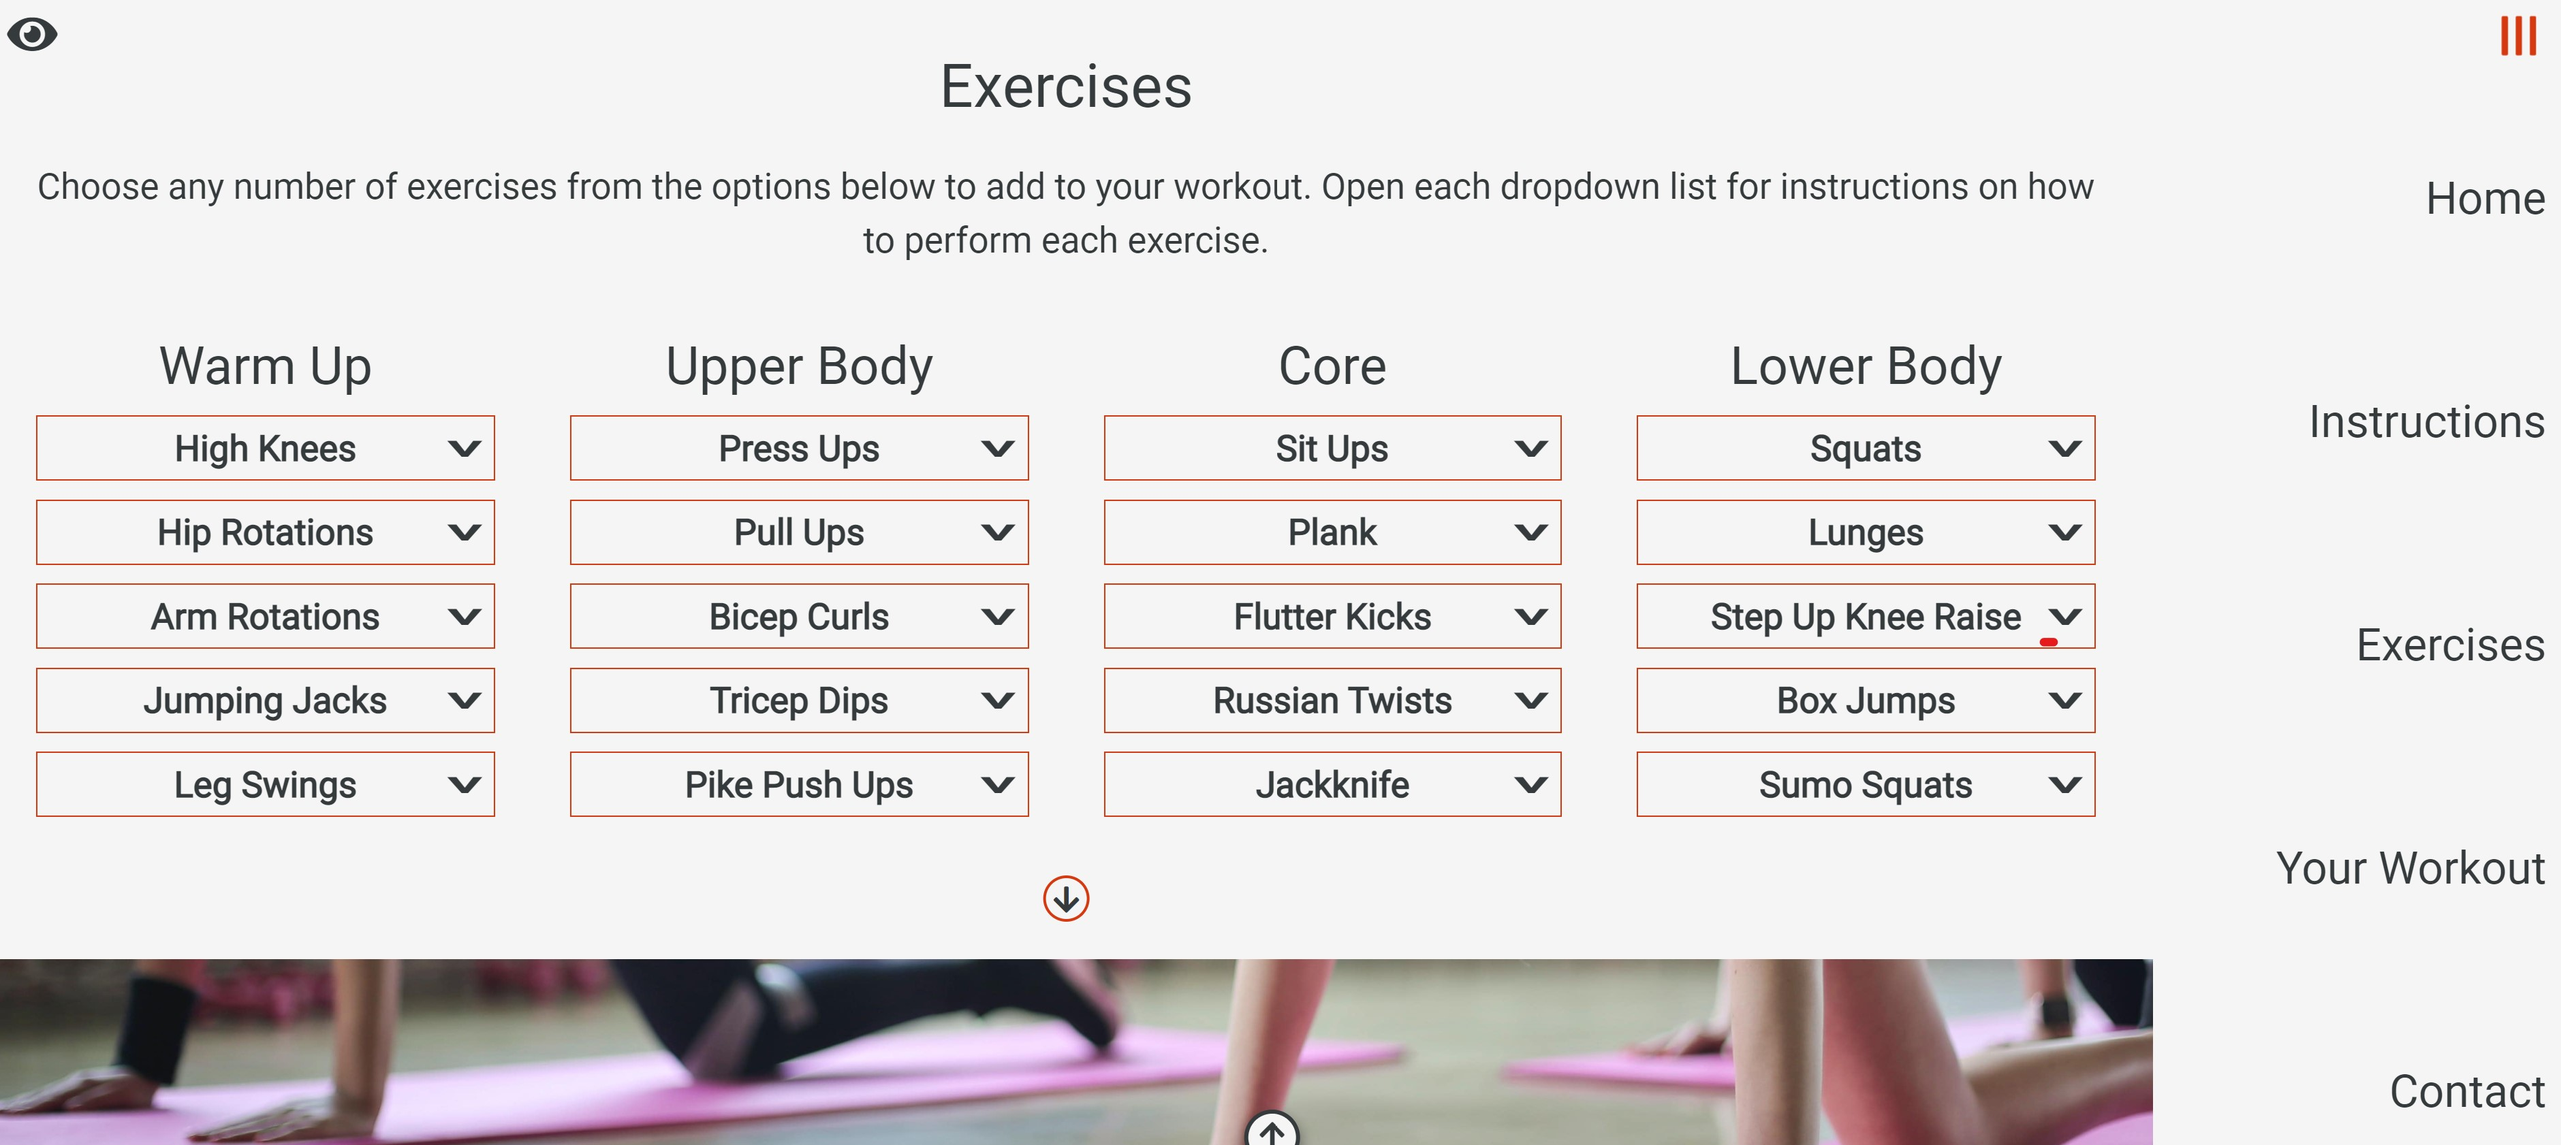
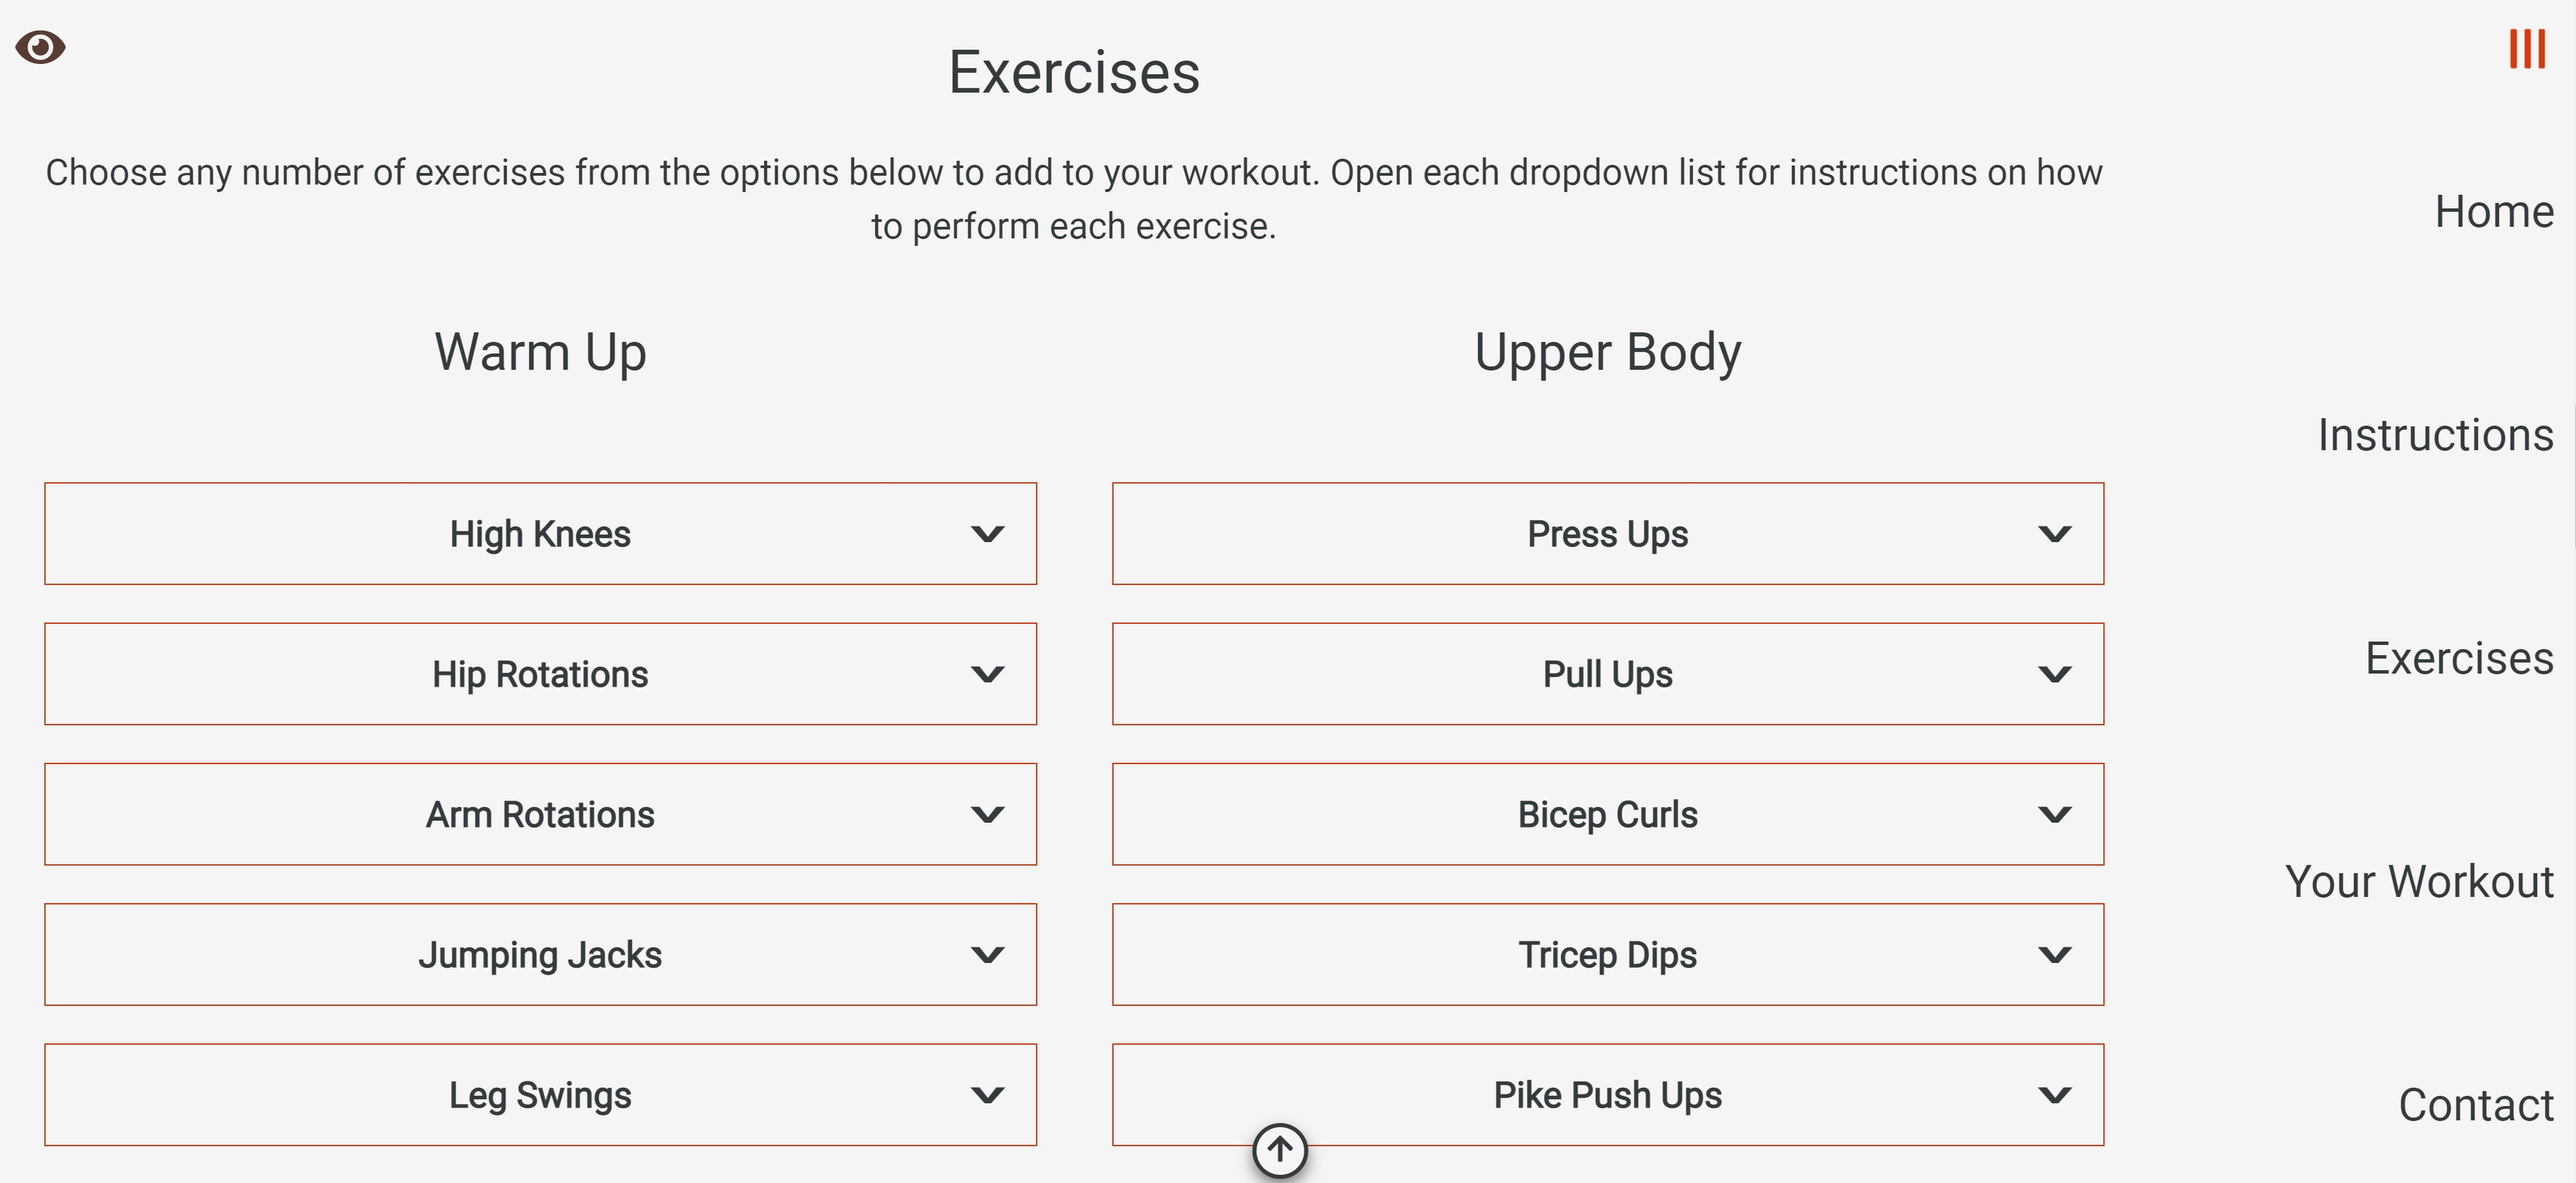
Added further updates to screenshots to reflect design changes

diff --git a/README.md b/README.md
@@ -112,11 +112,11 @@ All font is 'Roboto' from the Google Fonts collection. This is a very typical fo
 
   ![Small Screen](documentation/responsive_small.jpg)
 
-  - On Larger screens, the "My Exercises" items are in four columns.
+  - On Larger screens, the "My Exercises" items are in two columns.
   
   ![Large Screen](documentation/responsive_large.jpg)
 
-  - On tablet screens, the "My Exercises" items are in two columns.
+  - On tablet screens, the "My Exercises" items are in one column, same as for smaller screens.
 
   ![Mid Screen](documentation/responsive_mid.jpg)
 
@@ -142,7 +142,7 @@ All font is 'Roboto' from the Google Fonts collection. This is a very typical fo
   ![Mid Nav](documentation/nav_down.jpg)
 
   - Once the user has scrolled further than 20px from the top of the screen, an upward-facing arrow button appears at the middle bottom of the screen. Upon selection, this arrow returns the user to the very top of the page.
-![Mid Nav](documentation/nav_up.jpg)
+  ![Mid Nav](documentation/nav_up.jpg)
 
 ### Colour Toggle
 
